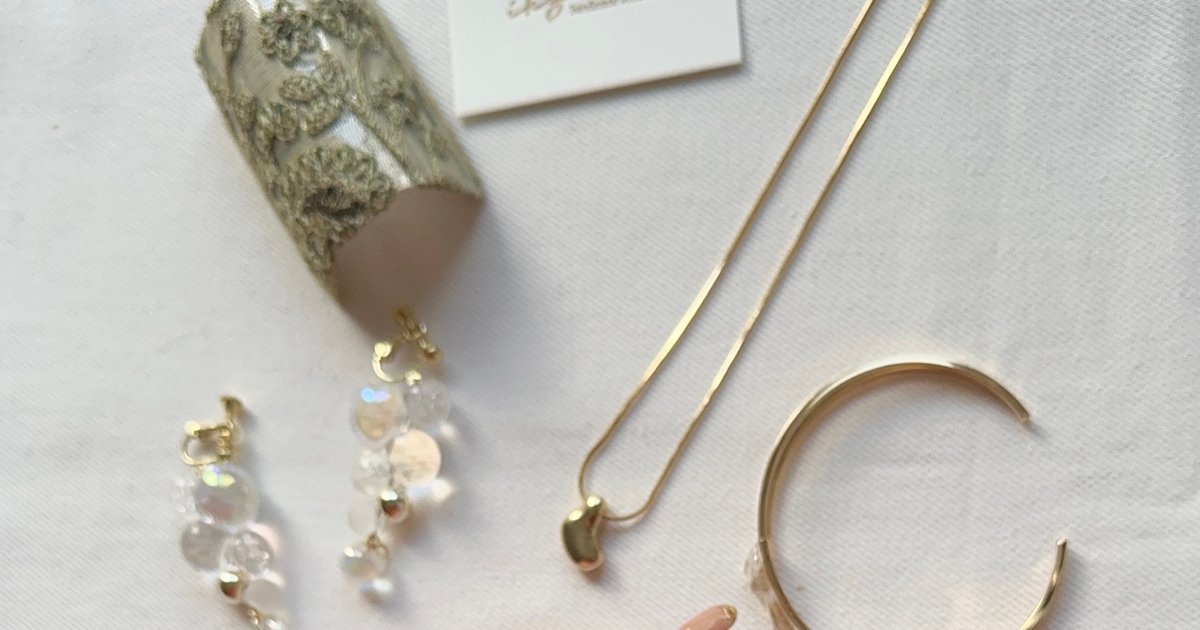
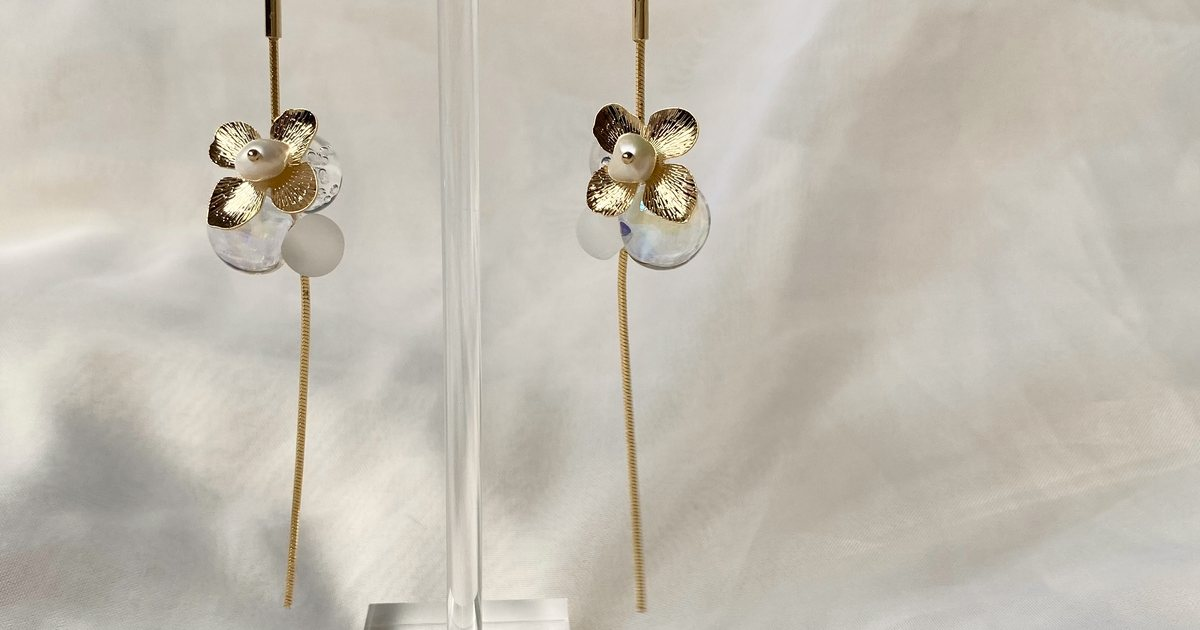
Make product photography the protagonist of the site
- COLLECTION: replace interim flatlay with a hand-held hero shot and
  a six-piece 4:5 gallery (gold hoops, clear cluster, ring in window
  light, gypsophila studs, bangles on vintage glass, worn choker),
  each with a one-line caption; the former highlights trio now lives
  as captions under the photos
- TOP: collection section now shows the acrylic-stand earrings that
  match the "light and transparency" copy beside it
- OG image: regenerated 1200x630 from the stand shot (was flatlay
  with out-of-palette sleeve)
- All 9 new images cropped/color-unified (slight warm correction,
  orange-free framing) and encoded as WebP
- Remove retired interim crops (flatlay-top, flatlay-still)
- Add docs/brand-photo-guidelines.md: operational photo rules
  (palette %, light, backgrounds, per-channel usage, NG examples)
  plus prioritized shooting list; gallery keeps one slot ready for
  the future ear-worn shot

Claude-Session: https://claude.ai/code/session_01G8a5h28uZzx5N1N1zcrzRH

diff --git a/src/app/collection/page.tsx b/src/app/collection/page.tsx
@@ -19,18 +19,40 @@ export const metadata: Metadata = {
   },
 };
 
-const highlights = [
+/**
+ * 作品ギャラリー。文章は写真の余韻に一行だけ添える(写真が主役)。
+ * 耳元の着用カットが撮影でき次第、この配列に1枠追加する。
+ */
+const works = [
   {
-    title: "透明を、かさねる",
-    body: "ガラスやレジンの粒が、光をすくいあげてやわらかくきらめく。派手ではないのに、ふと目をひく透明感。ikyuの作品のいちばんの持ち味です。",
+    src: "/images/product-hoops.webp",
+    alt: "白いサテンの上に並ぶ、金の花びらのフープピアス2組。花芯には押し花をとじこめた透明な球",
+    caption: "金の光を、まとう",
   },
   {
-    title: "金の光を、まとう",
-    body: "肌になじむ細いゴールドのライン。カジュアルな装いにも、きれいめの日にも。毎日そばに置きたくなる、ちょうどいい輝きを選んでいます。",
+    src: "/images/product-cluster.webp",
+    alt: "グレージュの背景の中、アクリルスタンドで揺れる透明ビーズのクラスターピアス",
+    caption: "透明を、かさねる",
   },
   {
-    title: "季節を、とじこめる",
-    body: "生花から育てたドライフラワーを、いちばん美しい姿のままレジンの中へ。その季節、その一輪だけの色が、あなたの毎日に寄り添います。",
+    src: "/images/product-ring.webp",
+    alt: "白いシアーな袖の手元。押し花をとじこめたレジンと細いゴールドのリングに、窓からの光の筋が差す",
+    caption: "指先にも、花をひとつ",
+  },
+  {
+    src: "/images/product-blooms.webp",
+    alt: "白い陶器のトレイの上、ブランドカードに留められた小さな白いかすみ草のスタッドピアス",
+    caption: "季節を、とじこめる",
+  },
+  {
+    src: "/images/product-bangles.webp",
+    alt: "ヴィンテージのガラスの器に掛かる2本のバングル。ゴールドのツイストと、押し花をとじこめた透明なレジン",
+    caption: "暮らしの景色になじむ",
+  },
+  {
+    src: "/images/wear-necklace.webp",
+    alt: "白いキャミソールとブラウンのカーディガンの首もとに、華奢なゴールドのチョーカー",
+    caption: "いつもの装いのそばに",
   },
 ] as const;
 
@@ -55,43 +77,43 @@ export default function CollectionPage() {
             その日の装いに、ちいさな華やぎを添える一点ものたちです。
           </p>
         </Container>
-        {/* 作品写真は全幅で引き伸ばさず、余白の中に「一皿」として置く */}
+        {/* 主役の1枚:作品を「もの」ではなく「手から手へ」の気配で見せる */}
         <Container className="mt-14 md:mt-20">
-          <div className="relative mx-auto aspect-[1600/1000] w-full max-w-[720px]">
+          <div className="relative mx-auto aspect-[2137/2256] w-full max-w-[640px]">
             <Image
-              src="/images/flatlay-still.webp"
-              alt="白い布の上に並ぶikyuの作品。ゴールドのスネークチェーンネックレス、バングル、虹色の透明ビーズのイヤリング、刺繍レースのカフ"
+              src="/images/collection-hands.webp"
+              alt="ゴールドのチューリップと、すずらんのように連なる白い小花のロングピアスを、指先でそっと掲げた手元"
               fill
               priority
-              sizes="(min-width: 800px) 720px, 100vw"
+              sizes="(min-width: 720px) 640px, 100vw"
               className="object-cover"
             />
           </div>
         </Container>
       </Section>
 
-      {/* 作品の3つの持ち味 */}
-      <Section aria-labelledby="highlights-heading">
+      {/* 作品ギャラリー:写真が主役。言葉はキャプション一行に退く */}
+      <Section aria-labelledby="works-heading">
         <Container>
-          <h2 id="highlights-heading" className="sr-only">
-            ikyuの作品の持ち味
+          <h2 id="works-heading" className="sr-only">
+            作品のいろいろ
           </h2>
-          <div className="grid gap-14 md:grid-cols-3 md:gap-10">
-            {highlights.map((item, i) => (
-              <div key={item.title}>
-                <p
-                  aria-hidden="true"
-                  className="font-display text-[15px] tracking-[0.24em] text-rose"
-                >
-                  {String(i + 1).padStart(2, "0")}
-                </p>
-                <Heading as="h3" className="mt-3">
-                  {item.title}
-                </Heading>
-                <p className="mt-4 text-[14px] leading-[2.3] text-ink-soft">
-                  {item.body}
-                </p>
-              </div>
+          <div className="grid grid-cols-2 gap-x-5 gap-y-10 md:grid-cols-3 md:gap-x-10 md:gap-y-14">
+            {works.map((work) => (
+              <figure key={work.src}>
+                <div className="relative aspect-[4/5] w-full">
+                  <Image
+                    src={work.src}
+                    alt={work.alt}
+                    fill
+                    sizes="(min-width: 768px) 33vw, 50vw"
+                    className="object-cover"
+                  />
+                </div>
+                <figcaption className="mt-4 text-center text-[13px] tracking-[0.1em] text-ink-soft">
+                  {work.caption}
+                </figcaption>
+              </figure>
             ))}
           </div>
         </Container>

diff --git a/src/app/page.tsx b/src/app/page.tsx
@@ -88,10 +88,10 @@ export default function HomePage() {
       <Section tone="soft" aria-labelledby="collection-heading">
         <Container>
           <div className="grid items-center gap-12 md:grid-cols-2 md:gap-16">
-            <div className="relative order-2 aspect-[1200/930] w-full md:order-1">
+            <div className="relative order-2 aspect-[2841/2670] w-full md:order-1">
               <Image
-                src="/images/flatlay-top.webp"
-                alt="白い布の上に並ぶikyuの作品。ゴールドのネックレスとバングル、虹色にきらめく透明なビーズのイヤリング、刺繍レースのカフ"
+                src="/images/product-stand.webp"
+                alt="白い布を背景に、アクリルスタンドで揺れるikyuのピアス。金の花びらから、白い小花と細いゴールドのラインが垂れる"
                 fill
                 sizes="(min-width: 768px) 50vw, 100vw"
                 className="object-cover"

diff --git a/src/app/layout.tsx b/src/app/layout.tsx
@@ -43,7 +43,7 @@ export const metadata: Metadata = {
         url: "/images/og.jpg",
         width: 1200,
         height: 630,
-        alt: "ikyuのアクセサリー。ゴールドのネックレスやバングル、透明感のあるピアス",
+        alt: "白い布を背景に、アクリルスタンドで揺れるikyuのピアス。金の花びらと白い小花、細いゴールドのライン",
       },
     ],
   },

diff --git a/docs/brand-photo-guidelines.md b/docs/brand-photo-guidelines.md
@@ -1,0 +1,112 @@
+# ikyu ブランドフォトガイドライン
+
+「暮らしに花が咲きますように。」——ikyuの写真は、作品そのものではなく、
+**作品を身につけた人の気持ちに咲く「花」の気配**を撮ります。
+このガイドラインは、今後どんな写真を追加してもブランドの統一感が保てるための判断基準です。
+
+基準写真(迷ったらこれに合わせる):
+**手持ちのチューリップピアス(collection-hands)/ カード付きピアス(サテン)** の2枚の色と光。
+
+---
+
+## 1. 世界観
+
+- 撮るのは「もの」ではなく「光・手・肌・布を通した気持ちの気配」。
+- キーワードは **華やかさ・上品さ・透明感**。3つのうち最低1つが画面で成立していること。
+- 静けさが最優先。にぎやかさ・情報量で目を引かない。
+
+## 2. 色味
+
+- 基準は生成り(#faf8f5)。**画面の70%以上を白〜生成り〜ベージュ**が占めること。
+- 彩度の高い色(オレンジ・原色・ビビッドカラー)は小物・服・ネイルを含めて画面に入れない。
+- 青みに寄った写真は、ごくわずかに暖色へ補正してから使う。
+
+## 3. 明るさ
+
+- ハイキー(明るめ)基調。ただし白飛びでレースや花びらのディテールを失わない。
+- 影は「淡く、長く」。「濃く、短く」(正午の直射)はNG。
+
+## 4. 背景
+
+- 第一候補:白〜生成りの布。**マットな質感(綿・シフォン・ガーゼ)**。強い光沢のサテンは避ける。
+- 第二候補:生成り〜グレージュの無地壁。
+- 木目・柄物・色物は画面の20%まで。
+
+## 5. 小物
+
+- 1画面に1種類まで(ガラスの器・手鏡・ブランドカード・陶器のトレイのいずれか)。
+- **透明なもの(ガラス・アクリル)を優先**——作品の透明感と響き合うため。
+- 木製・ドライ小物(綿の枝など)は季節の告知写真のみ。
+
+## 6. 構図と余白
+
+- 余白は画面の50%以上。主役は中央か三分割の交点に。
+- 対角線は1本まで。斜め置きのカードを2枚以上重ねない。
+- 人物の顔全体は写さない(顎まで・横顔・後ろ姿)。手・耳・首もとで語る。
+- 関節で切らない(指の第二関節・肘の位置でのトリミングNG)。
+
+## 7. 撮影距離
+
+1つの作品につき、次の3距離を揃えるのが理想:
+
+1. **寄り** — レジンの中の花にピント(ディテール)
+2. **中景** — 作品全体とスタイリング
+3. **気配** — 手に持つ・身につける・光と一緒に
+
+## 8. 光
+
+- 自然光のみ。**レースカーテン越しの拡散光が基準**。
+- 直射日光は「光の筋」を意図的にデザインする場合のみ可(リング着用カットが手本)。
+- ストロボ・室内灯・リングライトは使わない。
+- 時間帯は午前〜昼。曇りの日は絶好の撮影日和。
+
+## 9. トリミング
+
+- サイト用は **4:5 と 1:1** を基本に。ヒーロー用のみ16:10。
+- 撮影時は少し引きで撮り、トリミング前提にする(上下左右に余裕を残す)。
+
+## 10. 写真加工
+
+- 許可:色温度・明るさ・ごく弱いコントラストの補正。
+- 禁止:フィルター、強い彩度・コントラスト、肌の過剰レタッチ、AI生成・AI補完。
+
+## 11. 用途別ルール
+
+| 用途 | 優先すること | 許されること | 例 |
+|---|---|---|---|
+| ブランドサイト | 静けさ・余白・ディテールの解像 | なし(本ガイド厳守) | collection-hands, product-cluster |
+| Instagram | 温度・空気感・スクロールを止める力 | 硬い影・強いボケ・小物の自由 | 木のトレイ+強い影、ガーゼ+逆光 |
+| EC(minne) | 色の正確さ・サイズ感・複数アングル | 白背景の記録的な撮り方 | 正面・裏面・耳元・サイズ比較 |
+| イベント告知 | 場面・日時が読める余白 | スタイリング小物 | カードを手にした場面写真 |
+| 広告 | 気配+コピーの入る余白(上か左) | — | リング着用+光の筋 |
+
+## 12. 季節ごとの撮影
+
+- 年4回、**「季節の一輪」(ドライフラワー単体)と小物1点だけ**を入れ替える。
+- 世界観のルール(色・光・余白)は季節で変えない。変えるのは花と小物だけ。
+
+## 13. 絶対に避ける表現
+
+- 原色・強彩度の色(服・ネイル・小物を含む)
+- 正午の直射光による濃く短い影
+- 柄物・キャラクター物の背景や小物
+- 1画面に4種類以上の物を詰め込む
+- 過剰なボケで作品の輪郭が溶ける
+- 生活感の写り込み(コード・家電・家具の脚)
+- 顔全体(ブランドの奥ゆかしさを保つ)
+
+## 14. NG例(実例から)
+
+- **硬い影と濃い木目**(木のアーチトレイ+直射)→ Instagram専用。サイトには使わない
+- **主題が溶けた逆光ボケ**(ガーゼ+逆光のリボンピアス)→ Instagram専用
+- **パレット外の色が主役化**(オレンジのニット袖)→ 撮り直しかトリミングで除去
+
+---
+
+## 今後の優先撮影リスト
+
+1. ★★★★★ **耳元の着用カット** — 横顔〜斜め45°、顎から肩まで。窓光をレース越しに。4:5。COLLECTIONギャラリーに1枠追加予定(`src/app/collection/page.tsx` の `works` 配列)
+2. ★★★★★ **ネックレスの単体スチル** — 白布+アクリル/ガラス、チョーカーで
+3. ★★★★☆ **CARE用の手元** — やわらかい布で作品を包む手元(CAREページの写真解禁条件)
+4. ★★★★☆ **鏡のシグネチャーカット** — 手鏡の中の耳元
+5. ★★★☆☆ **季節の一輪** — フッター・季節更新用
